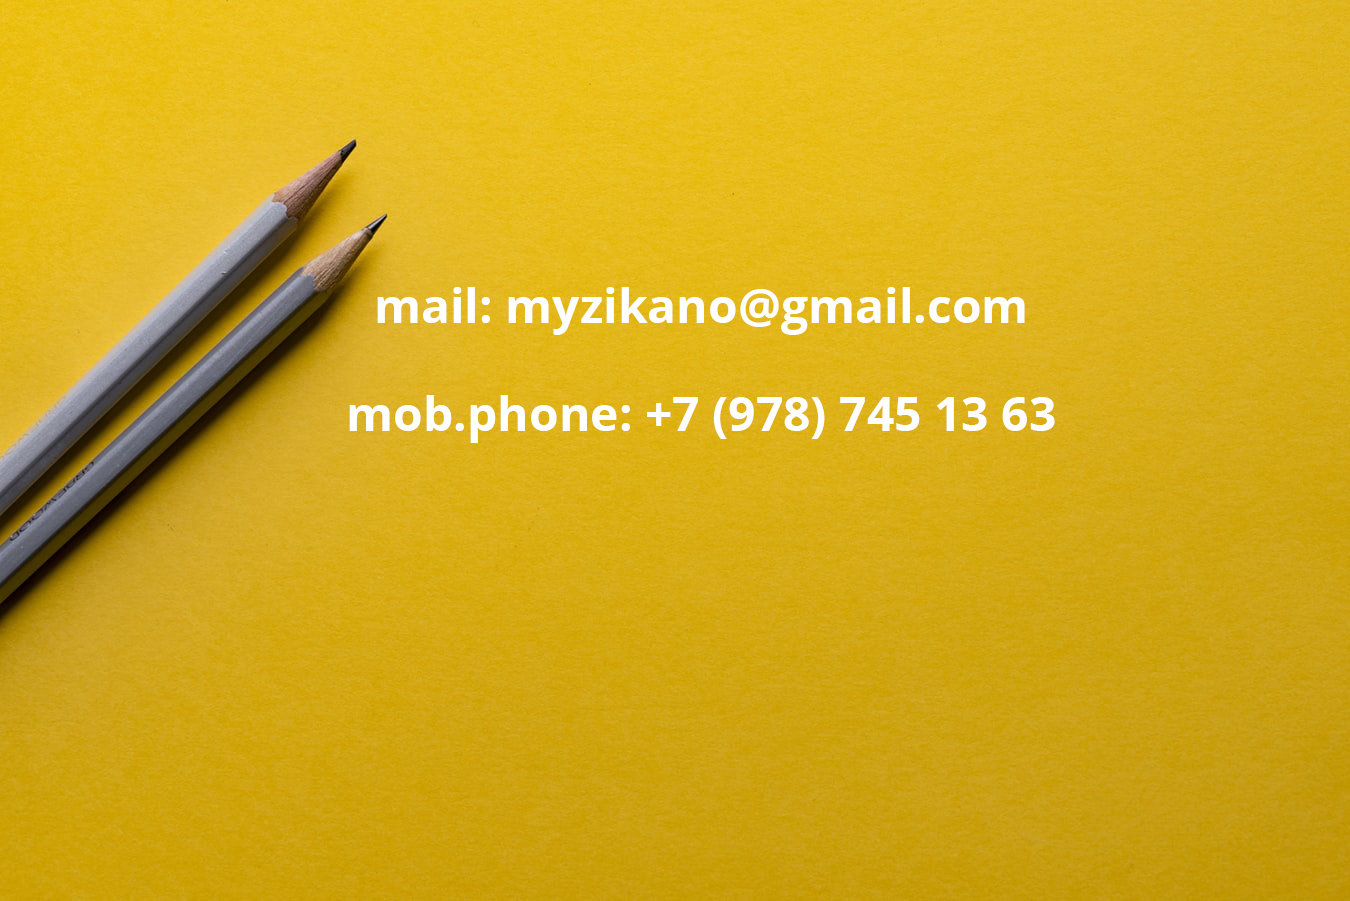
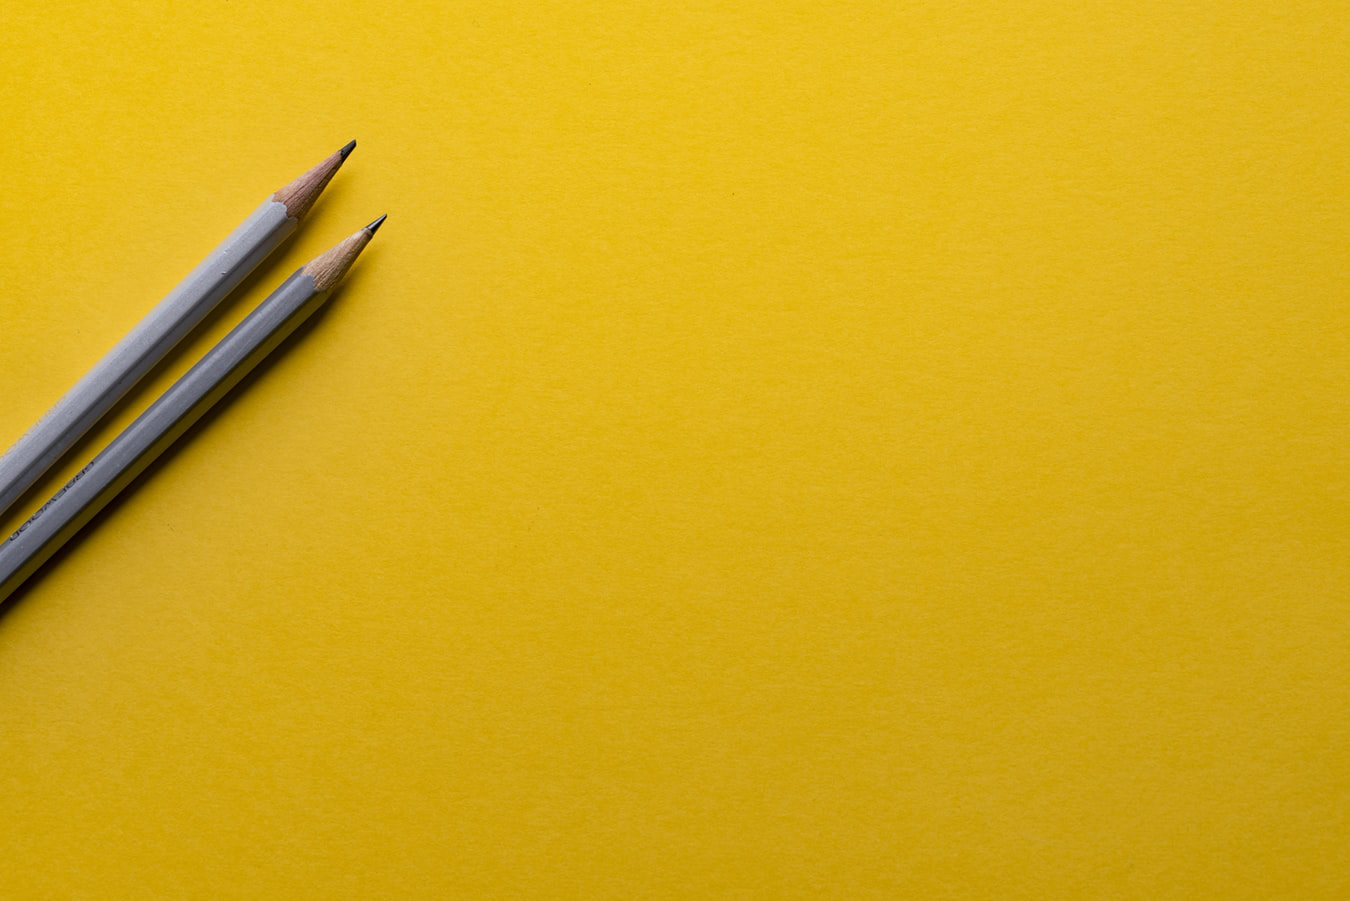
123

Changed region(s): [[0.28, 0.3108, 0.7778, 0.3729], [0.2489, 0.4351, 0.7778, 0.4972]]

diff --git a/src/pages/contacts.js b/src/pages/contacts.js
@@ -1,31 +1,16 @@
-import React from 'react'
-import Link from 'gatsby-link'
-import styled from 'styled-components'
+import React from 'react';
+import contacts from '../components/contacts';
 
-const ContactsGroup = styled.div`
-    background: White;
-    padding: 50px 0;
-    display: grid;
-    grid-gap: 20px;
-    text-align: center;
-    font-size: 40;
-`
-const Contacts = styled.div`
-    padding: 0px 0;
-    display: grid;
-    grid-gap: 20px;
-`
-      
-
-
-const contacts = () => (
-    <Contacts>
-    <div>
-    <img src={require('../images/1.jpg')} width="1920" CropImage="500" />
-
-    <ContactsGroup><Link to="/">Go back to the Homepage</Link></ContactsGroup>
+const Contacts = () => {
+    <div className="Contacts">
+        <h2>Full spector of services</h2>
+        <div className="ContactsGroup">
+            <Contacts
+                title="Business card"
+                text="DK"
+                image={require('../images/1.jpg')} />
+        </div>
     </div>
-    </Contacts>
-  )
+}
 
-export default contacts
+export default contacts;

diff --git a/src/components/contacts.css b/src/components/contacts.css
@@ -1,0 +1,48 @@
+.contacts {
+   overflow: hidden;
+   width: 1920px;
+   height: 900px;
+}
+
+.contacts img {
+   position: absolute;
+   width: 1920px;
+   height: 900px;
+   z-index: 1;
+   align-self: center;
+   justify-content: center;
+}
+
+.contacts h3 {
+   position: relative;
+   z-index: 2;
+   color: rgb(255, 255, 255);
+   font-size: 60px;
+   text-align: center;
+   line-height: 500px;
+}
+
+.contacts p {
+   position: relative;
+   z-index: 3;
+   color: rgb(255, 255, 255);
+   font-size: 60px;
+   font-weight: 600;
+   text-align: center;
+   top: -200px;
+}
+
+@media (max-width: 650px) {
+   .contacts {
+      width: 500px;
+      
+   }
+
+   .contacts h3 {
+      font-size: 30px;
+   }
+
+   .contacts p {
+      font-size: 30px;
+   }
+}

diff --git a/src/pages/portfolio.js b/src/pages/portfolio.js
@@ -9,22 +9,12 @@ const PortfolioGroup = styled.div`
     grid-gap: 20px;
     text-align: center;
     font-size: 40;
-    media (max-width: 720px) {
-            width: 500px;
-            size: 500px;
-      }
 `
 const Portfolio = styled.div`
     padding: 0px 0;
     display: grid;
     grid-gap: 20px;
-
-    @media (max-width: 720px) {
-            width: 500px;
-            size: 500px;
-      }
 `
-      
 
 
 const portfolio = () => (

diff --git a/src/components/contacts.js b/src/components/contacts.js
@@ -1,0 +1,12 @@
+import React from 'react'
+import './contacts.css'
+
+const contacts = props => (
+    <div className="contacts">
+        <img src={require('../images/1.jpg')} />
+        <h3>mail: myzikano@gmail.com</h3>
+        <p>mob.phone: +7 (978) 745 13 63</p>
+    </div>
+)
+
+export default contacts

diff --git a/src/components/Footer.js b/src/components/Footer.js
@@ -15,6 +15,7 @@ const Text = styled.p`
     margin: 0 auto;
 `
 const Button = styled.button`
+    z-index: 4;
     background: linear-gradient(102.24deg, #9B51E0 0%, #3436E7 100%);
     box-shadow: 0px 10px 20px rgba(101, 41, 255, 0.15);
     border-radius: 30px;

diff --git a/src/layouts/index.css b/src/layouts/index.css
@@ -140,3 +140,15 @@ a {
     grid-template-columns: repeat(1, 1fr);
   }
 }
+
+.Contacts {
+  position: relative; 
+  width: 90000%;
+}
+
+.Contacts-content {
+  position: absolute; 
+  top: 300px; 
+  left: 0; 
+  width: 100%;
+}
